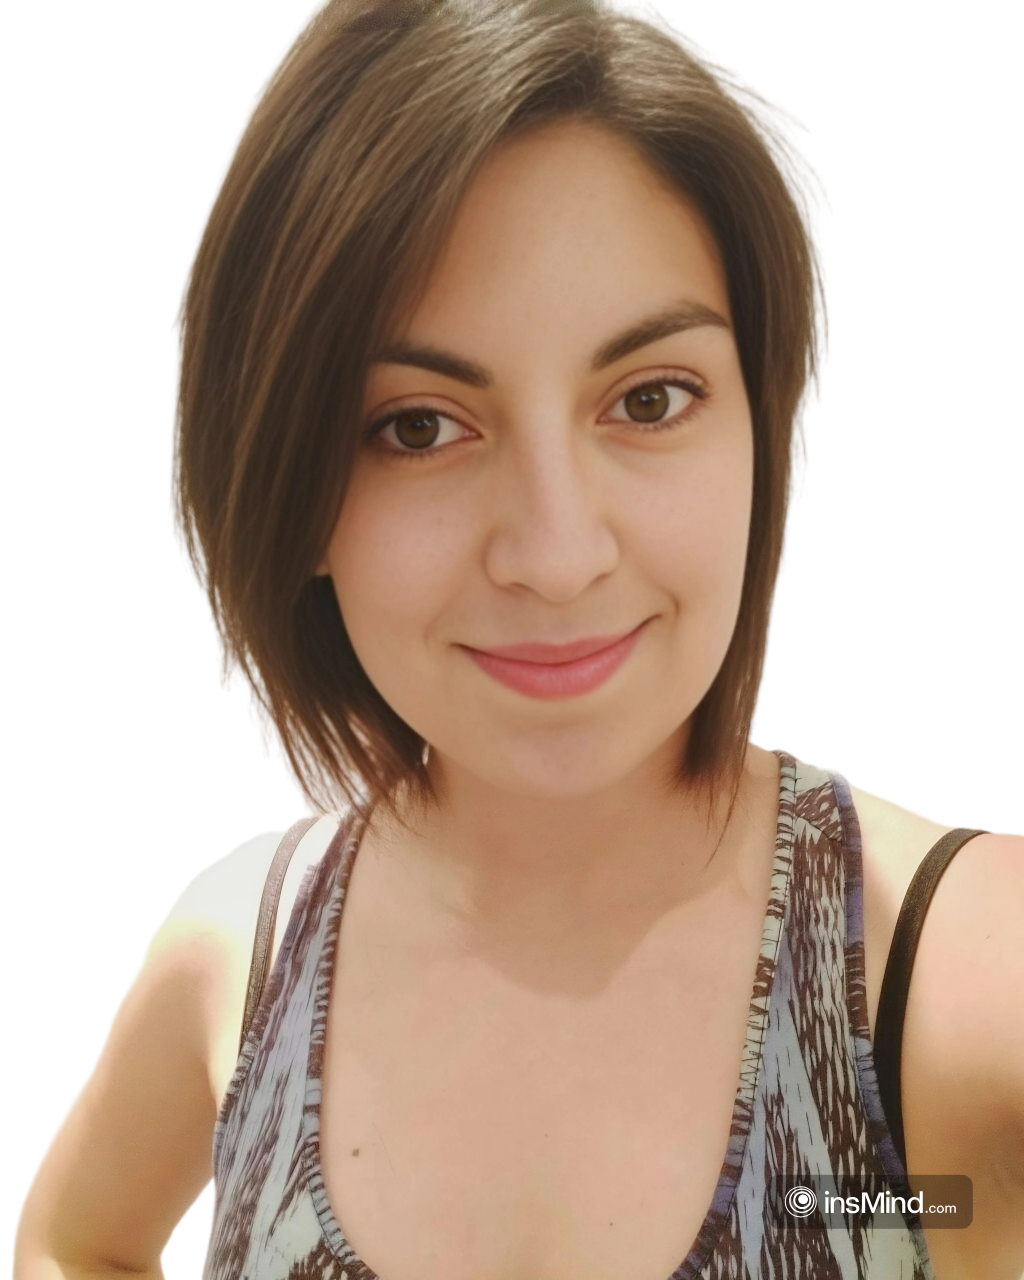
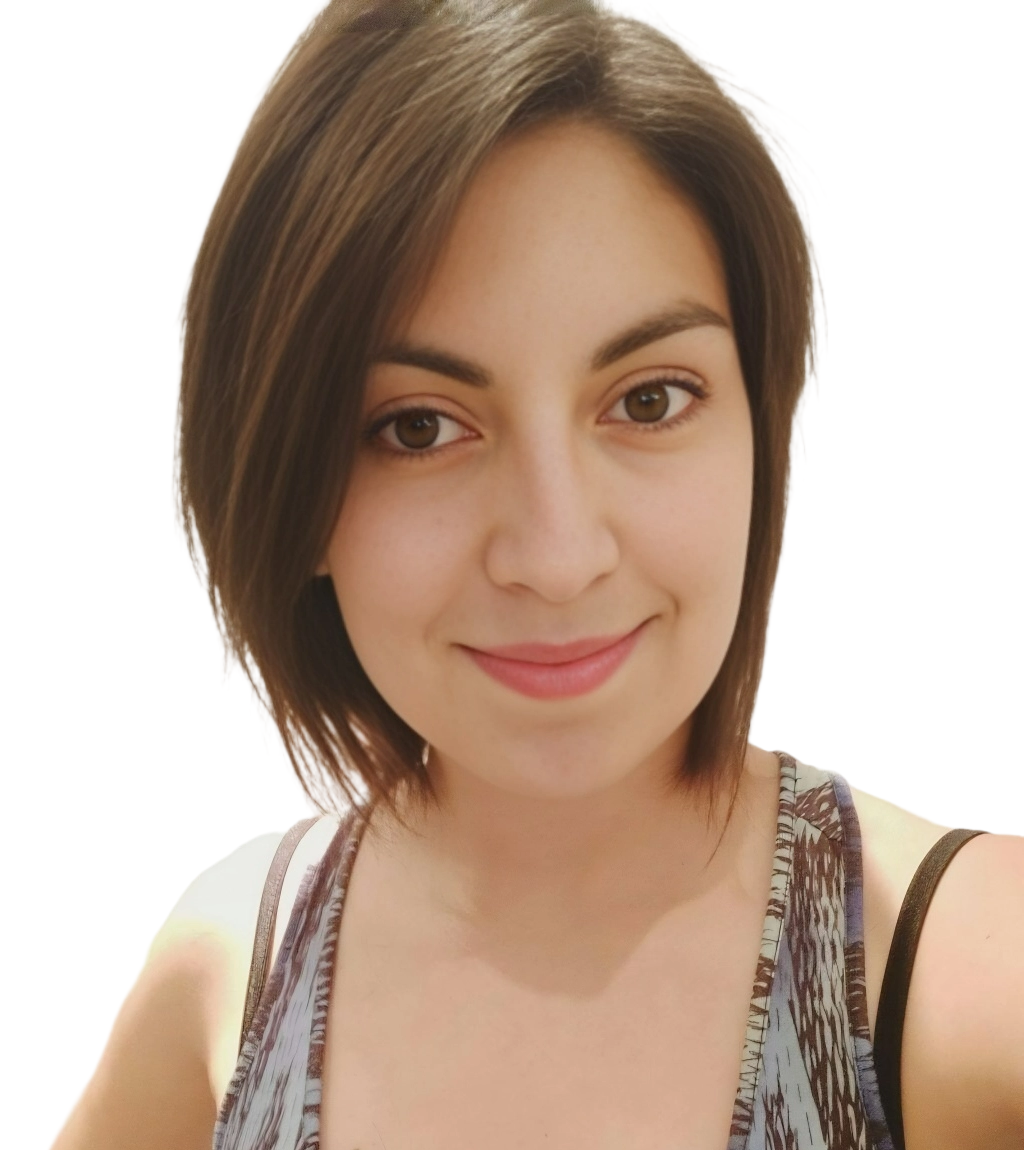
Modifique estructura de header

diff --git a/index.html b/index.html
@@ -61,7 +61,7 @@
     </nav>
 
     <main>
-      <header id="Hero-Section" class="text-end py-5 mt-5":>
+      <header id="Hero-Section" class="text-end py-1":>
         <div class="container">
           <div class="ms-auto col-12 col-md-7">
             <h1 class="display-1 fw-bold my-5">
@@ -80,8 +80,8 @@
               estrategias de comunicación sean alineadas con las metas
               organizacionales.
             </p>
-            <div class="mb-5 pb-5">
-              <button class="btn btn-lg btn-outline-info text-light me-4">
+            <div class="mb-5">
+              <button class="btn btn-secondary btn-outline-info text-dark me-4">
                 Portafolio
               </button>
               

diff --git a/assets/css/style.css b/assets/css/style.css
@@ -1,10 +1,10 @@
 .navbar {
   background-image: url("../images/imagen-header-portafolio.jpg");
   background-size: cover;
-  background-position: center;
-  background-repeat: no-repeat;
+  
+
   height: 200px;
-  position: relative;
+
 }
 
 .navbar a {
@@ -42,6 +42,15 @@
   font-size: 20px;
   padding-left: 40px;
   margin-bottom: 70px;
-
   color: aliceblue;
 }
+
+#Hero-Section {
+    background-image: url("../images/imagen-perfil-cv.png");
+    background-color: rgb(250, 239, 224);
+    background-repeat: no-repeat;
+    background-size: 400px;
+    padding-top: 100px;
+       
+    
+  }
